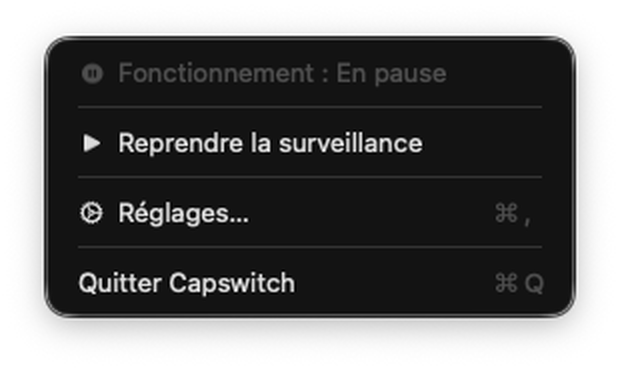
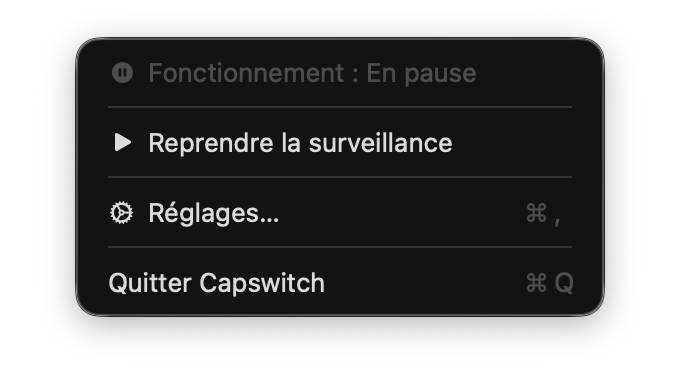
Improve localized screenshot quality

Changed region(s): [[0.0613, 0.0892, 0.95, 0.8622], [0.521, 0.1784, 0.7355, 0.2378]]

diff --git a/app/globals.css b/app/globals.css
@@ -270,7 +270,7 @@ html:lang(ja) .price-section h2 { white-space: nowrap; }
 @media (min-width: 40rem) {
   .hero { grid-template-columns: minmax(0, 1.05fr) minmax(20rem, .95fr); }
   .tour-chapter { grid-template-columns: minmax(12rem, .6fr) minmax(0, 1.4fr); align-items: center; }
-  .tour-chapter-menu .tour-screenshot { width: min(100%, 32rem); justify-self: start; }
+  .tour-chapter-menu .tour-screenshot { width: min(100%, 21.25rem); justify-self: start; }
   .tour-action { grid-template-columns: minmax(12rem, .6fr) minmax(0, 1.4fr); align-items: center; }
   .caps-lock-flow { grid-template-columns: minmax(0, 1fr) auto minmax(0, 1fr) auto minmax(0, 1fr); align-items: center; }
   .mode-row { grid-template-columns: 2.5rem minmax(14rem, .75fr) minmax(0, 1.25fr); align-items: start; }

diff --git a/app/localized-home.tsx b/app/localized-home.tsx
@@ -144,8 +144,8 @@ export function LocalizedHome({
             <figure className="tour-screenshot">
               <Image
                 src={`${publicBasePath}/screenshots/${locale}/capswitch-settings.png`}
-                width="968"
-                height="680"
+                width="1936"
+                height="1360"
                 loading="lazy"
                 alt={copy.tour.settingsAlt}
               />
@@ -178,7 +178,7 @@ export function LocalizedHome({
             <figure className="tour-screenshot">
               <Image
                 src={`${publicBasePath}/screenshots/${locale}/capswitch-menu.png`}
-                width="620"
+                width="680"
                 height="370"
                 loading="lazy"
                 alt={copy.tour.menuAlt}
